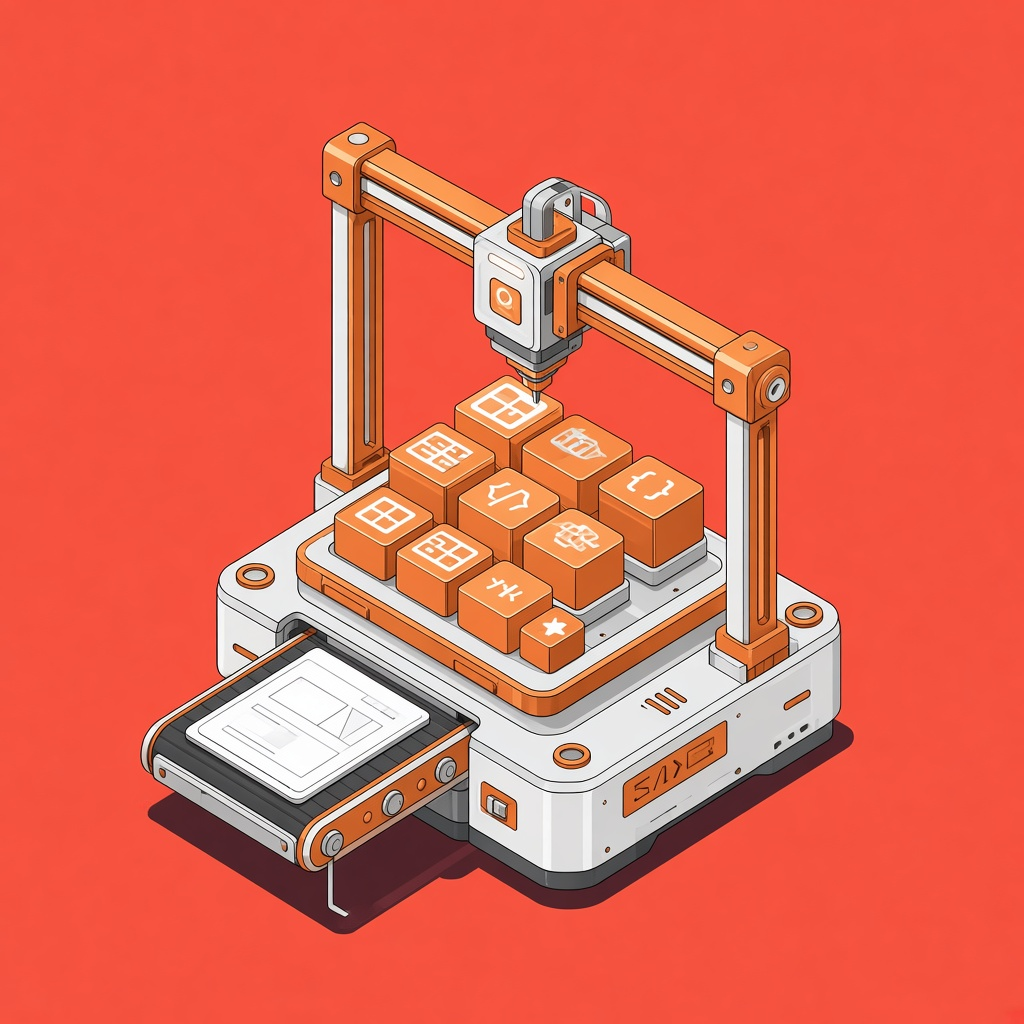
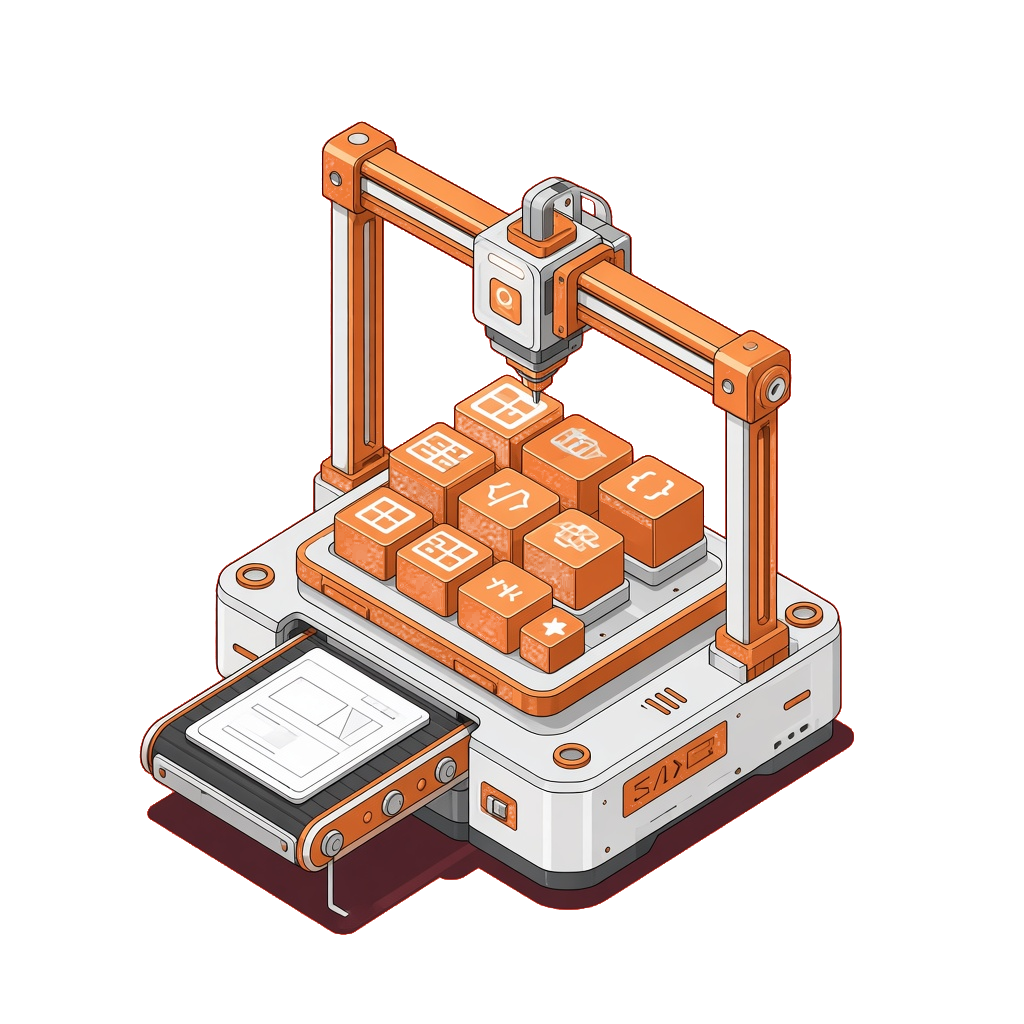
feat: enhance landing page with new coral media surface and illustrations

diff --git a/components/landing/landing-page.tsx b/components/landing/landing-page.tsx
@@ -190,27 +190,62 @@ const whyFeatures = [
     title: "Copy. Customize. Ship.",
     description:
       "Start with production-ready components and make them your own. No locked-down abstractions. No fighting the library.",
-    image: "/landing/why-media.png",
+    image: "/landing/why/copy.png",
+    short: "Copy",
   },
   {
     title: "Motion that means something.",
     description:
       "Every animation is purposeful — feedback, focus, and flow — not decoration for its own sake.",
-    image: "/landing/card-interactions.png",
+    image: "/landing/why/motion.png",
+    short: "Motion",
   },
   {
     title: "Built to be changed.",
     description:
       "Clean, editable source you own. Swap tokens, restyle freely, and keep shipping without fighting abstractions.",
-    image: "/landing/card-layouts.png",
+    image: "/landing/why/built.png",
+    short: "Change",
   },
   {
     title: "Skip the blank canvas.",
     description:
       "Start from patterns that already work. Less scaffolding, more product — from first commit to polished UI.",
-    image: "/landing/card-navigation.png",
+    image: "/landing/why/blank.png",
+    short: "Start",
   },
 ] as const;
+
+/** Coral media plate from Figma node 1:670 — base, lighting ellipses, plus grid */
+function WhyCoralSurface({
+  className,
+  children,
+}: {
+  className?: string;
+  children?: ReactNode;
+}) {
+  return (
+    <div className={cn("landing-why-surface relative overflow-hidden", className)}>
+      <div className="pointer-events-none absolute inset-0" aria-hidden>
+        {/* eslint-disable-next-line @next/next/no-img-element */}
+        <img
+          src="/landing/why/glow-a.svg"
+          alt=""
+          className="landing-why-surface-glow-a"
+        />
+        {/* eslint-disable-next-line @next/next/no-img-element */}
+        <img
+          src="/landing/why/glow-b.svg"
+          alt=""
+          className="landing-why-surface-glow-b"
+        />
+        <div className="landing-why-surface-grid" />
+        <div className="landing-why-surface-light" />
+      </div>
+      <div className="relative z-[1] size-full">{children}</div>
+    </div>
+  );
+}
 
 const whyActiveLine =
   "linear-gradient(in oklab 179.04deg, oklab(43.6% -0.034 -0.138) -260%, oklab(53% 0.114 0.016) 225.3%, oklab(86.5% 0.053 0.047) 720%)";
@@ -554,16 +589,54 @@ function WhySection() {
             })}
           </div>
 
-          <div className="relative h-[280px] w-full overflow-hidden rounded-2xl bg-[#0A1739] sm:h-[360px] lg:h-[400px] lg:w-[588px] lg:shrink-0">
-            <Image
-              key={whyFeatures[active].image}
-              src={whyFeatures[active].image}
-              alt=""
-              fill
-              sizes="(max-width: 1024px) 100vw, 588px"
-              className="landing-why-fade object-cover"
-            />
+          <div className="relative h-[280px] w-full sm:h-[360px] lg:h-[400px] lg:w-[588px] lg:shrink-0">
+            <WhyCoralSurface className="size-full rounded-2xl">
+              <div className="absolute inset-[10%] sm:inset-[12%]">
+                <Image
+                  key={whyFeatures[active].image}
+                  src={whyFeatures[active].image}
+                  alt=""
+                  fill
+                  sizes="(max-width: 1024px) 100vw, 588px"
+                  className="landing-why-fade object-contain"
+                />
+              </div>
+            </WhyCoralSurface>
           </div>
+        </div>
+
+        <div className="grid grid-cols-2 gap-3 sm:gap-4 lg:grid-cols-4 lg:gap-5">
+          {whyFeatures.map((feature, i) => {
+            const isActive = i === active;
+            return (
+              <button
+                key={feature.image}
+                type="button"
+                onClick={() => select(i)}
+                aria-label={feature.title}
+                aria-pressed={isActive}
+                className={cn(
+                  "relative aspect-[4/3] w-full overflow-hidden rounded-2xl transition-[transform,box-shadow] duration-150 ease-out active:scale-[0.98]",
+                  isActive
+                    ? "ring-2 ring-white/35 ring-offset-2 ring-offset-[#1B1C1D]"
+                    : "ring-0",
+                )}
+              >
+                <WhyCoralSurface className="size-full rounded-2xl">
+                  {/* Minimized art — Figma surface breathes around the illustration */}
+                  <div className="absolute inset-[18%] sm:inset-[22%]">
+                    <Image
+                      src={feature.image}
+                      alt=""
+                      fill
+                      sizes="(max-width: 1024px) 50vw, 280px"
+                      className="object-contain"
+                    />
+                  </div>
+                </WhyCoralSurface>
+              </button>
+            );
+          })}
         </div>
       </div>
     </section>

diff --git a/app/globals.css b/app/globals.css
@@ -532,6 +532,66 @@ html.dark .shiki span {
   animation: landing-why-fade 220ms var(--ease-out) both;
 }
 
+/* Figma 1:670 coral media surface — base + lighting + plus grid */
+.landing-why-surface {
+  background-color: #f45140;
+  isolation: isolate;
+}
+
+.landing-why-surface-glow-a,
+.landing-why-surface-glow-b {
+  position: absolute;
+  pointer-events: none;
+  transform: rotate(-45deg);
+  transform-origin: center;
+  user-select: none;
+}
+
+.landing-why-surface-glow-a {
+  left: 57%;
+  top: -37%;
+  width: 68%;
+  height: 93%;
+}
+
+.landing-why-surface-glow-b {
+  left: -18%;
+  top: -14%;
+  width: 108%;
+  height: 140%;
+}
+
+.landing-why-surface-grid {
+  position: absolute;
+  inset: 0;
+  pointer-events: none;
+  background-image: url("/landing/why/plus-grid.svg");
+  background-size: 10px 10px;
+  opacity: 0.9;
+}
+
+.landing-why-surface-light {
+  position: absolute;
+  inset: 0;
+  pointer-events: none;
+  background:
+    radial-gradient(
+      ellipse 55% 45% at 72% 18%,
+      oklch(0.86 0.08 40 / 0.35),
+      transparent 60%
+    ),
+    radial-gradient(
+      ellipse 60% 50% at 18% 55%,
+      oklch(0.78 0.1 35 / 0.22),
+      transparent 55%
+    ),
+    radial-gradient(
+      ellipse 50% 40% at 88% 78%,
+      oklch(0.42 0.12 35 / 0.28),
+      transparent 55%
+    );
+}
+
 @media (prefers-reduced-motion: reduce) {
   .landing-why-fade {
     animation: none !important;

diff --git a/proto/why-illustrations/DECISION.md b/proto/why-illustrations/DECISION.md
@@ -1,0 +1,7 @@
+# Why illustrations — decided from /option
+
+- Direction: **Coral** (coral field + copper hardware isometric)
+- Rejected: Assembly (schematic stacks) — clearer as diagrams, weaker campaign energy on the dark landing
+- Rejected: Signal (pink platform + lime/violet) — cohesive icon system, felt lighter than the Why section tone
+
+Promoted into homepage Why section with Figma node `1:670` coral surface (lighting ellipses + plus grid) and minimized bento art.
